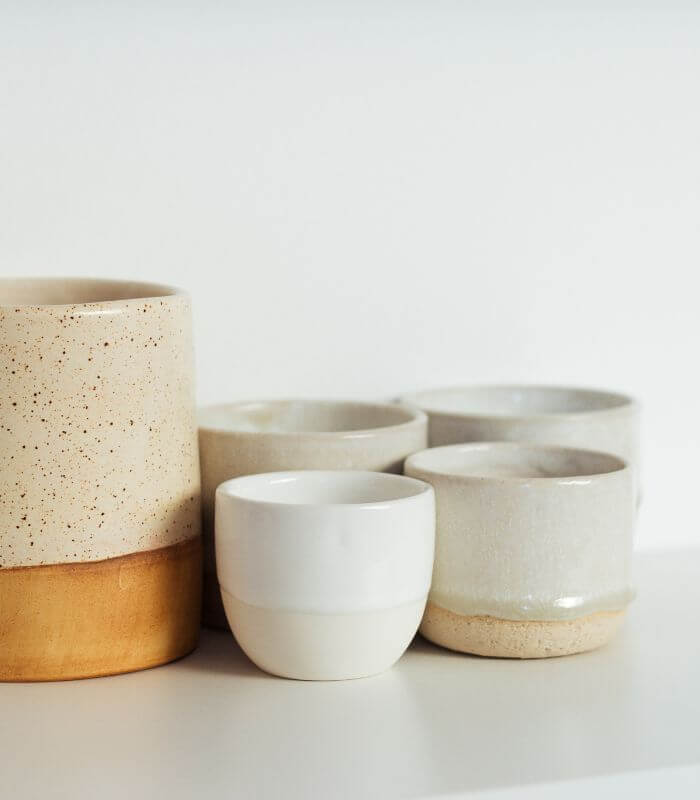
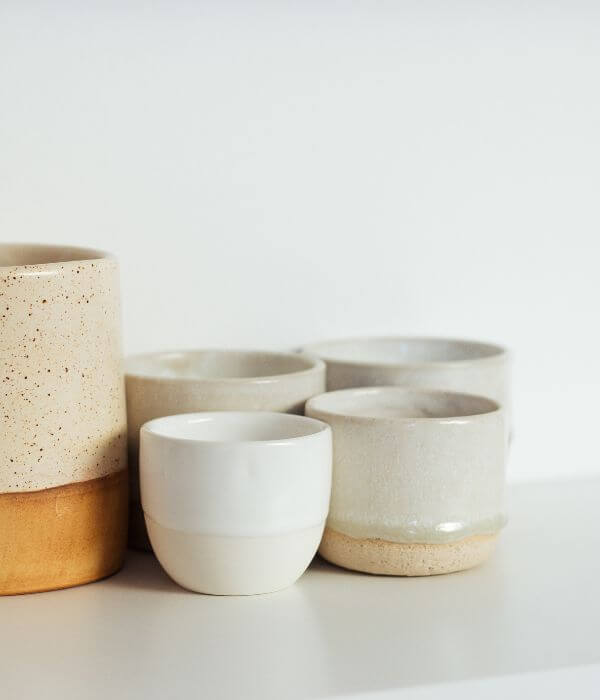
Images file replaced and compressed

Changed region(s): [[0.0, 0.33, 0.9, 0.87]]

diff --git a/client/src/components/homepage/CategoriesSection.jsx b/client/src/components/homepage/CategoriesSection.jsx
@@ -1,8 +1,9 @@
-import { Container, Grid, GridItem, Text, Image, Link, Heading } from '@chakra-ui/react';
+import { Container, Grid, GridItem, Text, Image, Link, Heading, useMediaQuery } from '@chakra-ui/react';
 import { Link as ReactLink } from 'react-router-dom';
 import HomeAccent from '../../otherassets/HomeAccent.jpg';
 import Dinnerware from '../../otherassets/Dinnerware.jpg';
 import ShopAll from '../../otherassets/AllProducts.jpg';
+import ShopAllMobile from '../../otherassets/AllProductsMobile.jpg';
 
 const CategoriesSection = () => {
   const mockButtonStyles = {
@@ -10,7 +11,7 @@ const CategoriesSection = () => {
     top: '80%',
     left: '50%',
     transform: 'translate(-50%, -50%)',
-    p: { base: '2', md: '4' },
+    p: { base: '2', md: '3' },
     rounded: 2,
     variant: 'none',
     fontWeight: 'regular',
@@ -19,9 +20,18 @@ const CategoriesSection = () => {
     fontSize: { base: 'sm', md: 'md' },
   };
 
+  const [isMobile] = useMediaQuery('(max-width: 768px)');
+
   return (
-    <Container as='section' maxW='12xl' justifyContent='center' mt={14} p={0} px={{ base: '8', lg: '12' }}>
-      <Heading as='h2' textAlign='center' textTransform='uppercase' color='brand.500' pb={{ base: '0', lg: '4' }}>
+    <Container as='section' maxW='12xl' justifyContent='center' mt={[8, 10]} px={{ base: '8', md: '10', lg: '12' }}>
+      <Heading
+        as='h2'
+        size={['lg', 'xl']}
+        textAlign='center'
+        textTransform='uppercase'
+        color='brand.500'
+        pb={{ base: '2', lg: '4' }}
+      >
         Discover Ander Hill
       </Heading>
 
@@ -33,7 +43,14 @@ const CategoriesSection = () => {
       >
         <Link as={ReactLink} to='/products/Home%20Accents'>
           <GridItem colSpan={{ base: 1, lg: 1 }} rowSpan={{ base: 1, lg: 1 }} position='relative'>
-            <Image w='full' fit='cover' objectPosition='center' src={HomeAccent} alt='Home accent products link' />
+            <Image
+              w='full'
+              fit='cover'
+              objectPosition='center'
+              src={HomeAccent}
+              alt='Home accent products link'
+              maxW='600px'
+            />
             <Text {...mockButtonStyles} whiteSpace='nowrap'>
               Shop Home Accents
             </Text>
@@ -41,8 +58,15 @@ const CategoriesSection = () => {
         </Link>
 
         <Link as={ReactLink} to='/products/Dinnerware'>
-          <GridItem colSpan={{ base: 1, lg: 1 }} rowSpan={{ base: 1, lg: 1 }} position='relative'>
-            <Image w='full' fit='cover' objectPosition='center' src={Dinnerware} alt='Dinnerware products link' />
+          <GridItem colSpan={{ base: 1, md: 1 }} rowSpan={{ base: 1, lg: 1 }} position='relative'>
+            <Image
+              w='full'
+              fit='cover'
+              objectPosition='center'
+              src={Dinnerware}
+              alt='Dinnerware products link'
+              maxW='600px'
+            />
             <Text {...mockButtonStyles} whiteSpace='nowrap'>
               Shop Dinnerware
             </Text>
@@ -58,9 +82,9 @@ const CategoriesSection = () => {
               left={0}
               w='100%'
               h='100%'
-              src={ShopAll}
+              src={isMobile ? ShopAllMobile : ShopAll}
               alt='Shop all collections link'
-              maxW='900px'
+              maxW={{ sm: '920px', lg: '600px' }}
             />
             <Text {...mockButtonStyles} whiteSpace='nowrap'>
               Shop All

diff --git a/client/src/App.js b/client/src/App.js
@@ -1,34 +1,25 @@
 import { ChakraProvider, extendTheme, Box } from '@chakra-ui/react';
 import { BrowserRouter as Router, Routes, Route } from 'react-router-dom';
-import '@fontsource/cormorant-garamond';
-import '@fontsource/poppins';
+// import '@fontsource/cormorant-garamond';
+// import '@fontsource/poppins';
 import React, { Suspense } from 'react';
 
 import Navbar from './components/Navbar';
 import Footer from './components/Footer';
-import HomeScreen from './screens/HomeScreen';
+// import HomeScreen from './screens/HomeScreen';
 import ScrollToTop from './helpers/ScrollToTop.js';
 import { Stack, Spinner } from '@chakra-ui/react';
-// import ProductsScreens from './screens/ProductsScreens';
-const ProductsScreens = React.lazy(() => import('./screens/ProductsScreens'));
-// import CartScreen from './screens/CartScreen';
-const CartScreen = React.lazy(() => import('./screens/CartScreen'));
-// import ProductScreen from './screens/ProductScreen';
-const ProductScreen = React.lazy(() => import('./screens/ProductScreen'));
 
-// import AboutUs from './screens/AboutUs';
+const HomeScreen = React.lazy(() => import('./screens/HomeScreen'));
+const ProductsScreens = React.lazy(() => import('./screens/ProductsScreens'));
+const CartScreen = React.lazy(() => import('./screens/CartScreen'));
+const ProductScreen = React.lazy(() => import('./screens/ProductScreen'));
 const AboutUs = React.lazy(() => import('./screens/AboutUs'));
-// import LoginScreen from './screens/LoginScreen';
 const LoginScreen = React.lazy(() => import('./screens/LoginScreen'));
-// import RegistrationScreen from './screens/RegistrationScreen';
 const RegistrationScreen = React.lazy(() => import('./screens/RegistrationScreen'));
-// import ProfileScreen from './screens/ProfileScreen';
 const ProfileScreen = React.lazy(() => import('./screens/ProfileScreen'));
-// import CheckoutScreen from './screens/CheckoutScreen';
 const CheckoutScreen = React.lazy(() => import('./screens/CheckoutScreen'));
-// import OrderSuccessScreen from './screens/OrderSuccessScreen';
 const OrderSuccessScreen = React.lazy(() => import('./screens/OrderSuccessScreen'));
-// import YourOrdersScreen from './screens/YourOrdersScreen';
 const YourOrdersScreen = React.lazy(() => import('./screens/YourOrdersScreen'));
 
 const theme = extendTheme({
@@ -48,7 +39,6 @@ const theme = extendTheme({
       300: '#BFB5A6',
       3001: '#989084',
       400: '#DFBD8E',
-      450: '#ECD7BA',
       4001: '#C4A67C',
       500: '#454545',
       5001: '#343434',

diff --git a/client/src/screens/HomeScreen.jsx b/client/src/screens/HomeScreen.jsx
@@ -9,7 +9,6 @@ import ContactForm from '../components/homepage/ContactForm';
 import VideoSection from '../components/homepage/VideoSection';
 import CategoriesSection from '../components/homepage/CategoriesSection';
 
-
 const HomeScreen = () => {
   const [isLoading, setIsLoading] = useState(true);
 
@@ -81,8 +80,7 @@ const HomeScreen = () => {
                 <Stack
                   spacing={6}
                   w={['8xl', '6xl', '2xl']}
-                  pb={{ md: '5%', lg: '2%' }}
-                  ml={{ md: '10%', lg: '8%' }}
+                  ml={{ base: '0%', md: '10%', lg: '8%' }}
                   justify='center'
                   textAlign={{ base: 'center', lg: 'left' }}
                 >
@@ -142,11 +140,9 @@ const HomeScreen = () => {
               <StoreBenefits iconSrc={ContactIcon} title='24/7 Support' description='Always Here to Assist You' />
             </HStack>
           </Box>
-
           <CategoriesSection />
-      
           <VideoSection />
-          <Flex justifyContent='center' pb={12} id='contact-form' px={{ base: '4', lg: '12' }}>
+          <Flex justifyContent='center' pb={12} id='contact-form' px={{ base: '0', md: '10', lg: '12' }}>
             <ContactForm />
           </Flex>
         </Box>

diff --git a/client/src/components/homepage/ContactForm.jsx b/client/src/components/homepage/ContactForm.jsx
@@ -59,7 +59,7 @@ const ContactForm = () => {
           >
             <Stack spacing='0'>
               <Stack spacing={{ base: '2', md: '3' }} textAlign='center' pb={2}>
-                <Heading as='h3' size={{ base: 'md', md: 'lg' }} fontFamily='body' color='brand.500'>
+                <Heading as='h3' size={{ base: 'md', md: 'lg' }} textTransform='uppercase' color='brand.500'>
                   Get in touch
                 </Heading>
                 <Text color='brand.500'>We are here for you! How can we help?</Text>
